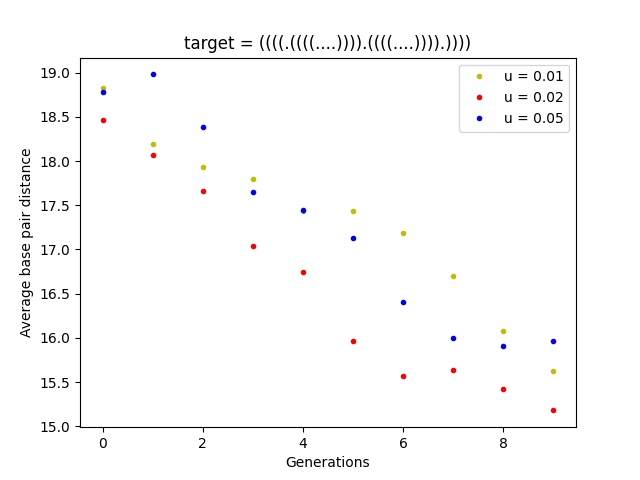
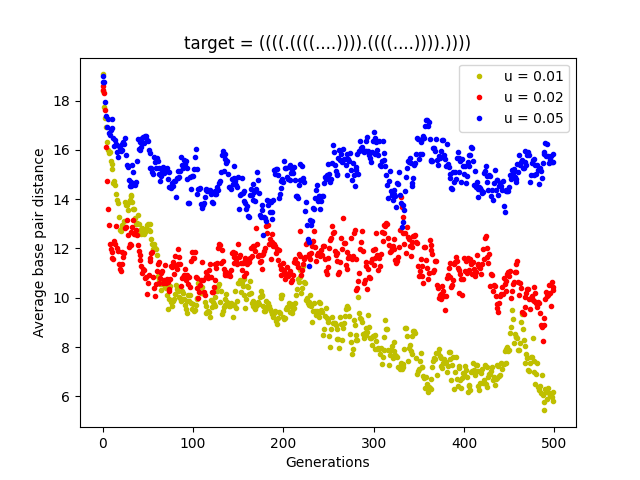
changed mutation
changing to same nt doesnt count as mutation

diff --git a/A1/HW1Q5.py b/A1/HW1Q5.py
@@ -10,7 +10,7 @@ T1 = '((..(((.......))))).....(((......)))....'
 T2 = '(((((..(((((.(((((....))))))))))..))))).'
 T3 = '((((((.((((....))))..((((....)))).))))))'
 N = 100 # size of population
-gens = 10 # number of generations
+gens = 500 # number of generations
 
 test = '((((.((((....)))).((((....)))).))))'
 

diff --git a/A1/new.py b/A1/new.py
@@ -64,7 +64,9 @@ def mutate(seq, mutation_rate):
 	for bp in seq:
 		r = random.random()
 		if r < mutation_rate:
-			new = new + random.choice("ACUG")
+			alphabet = ['A', 'C', 'G', 'U']
+			alphabet.remove(bp)
+			new = new + random.choice(alphabet)
 			mutated=True
 		else:
 			new = new + bp # no change
